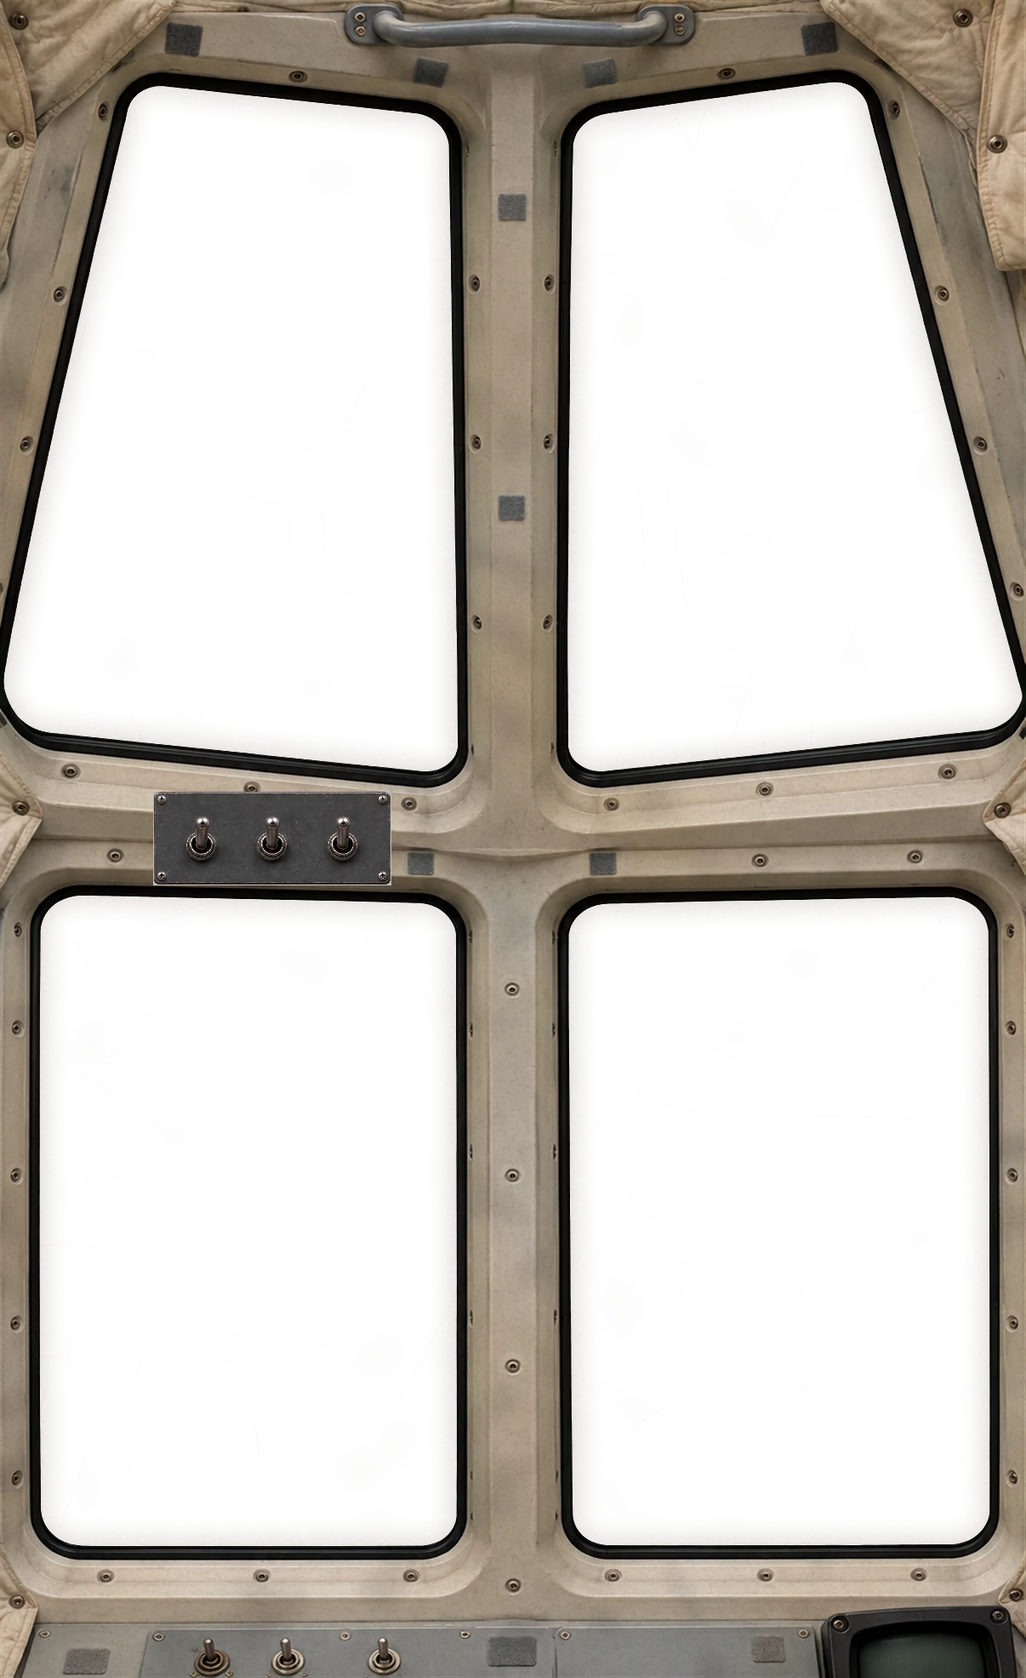
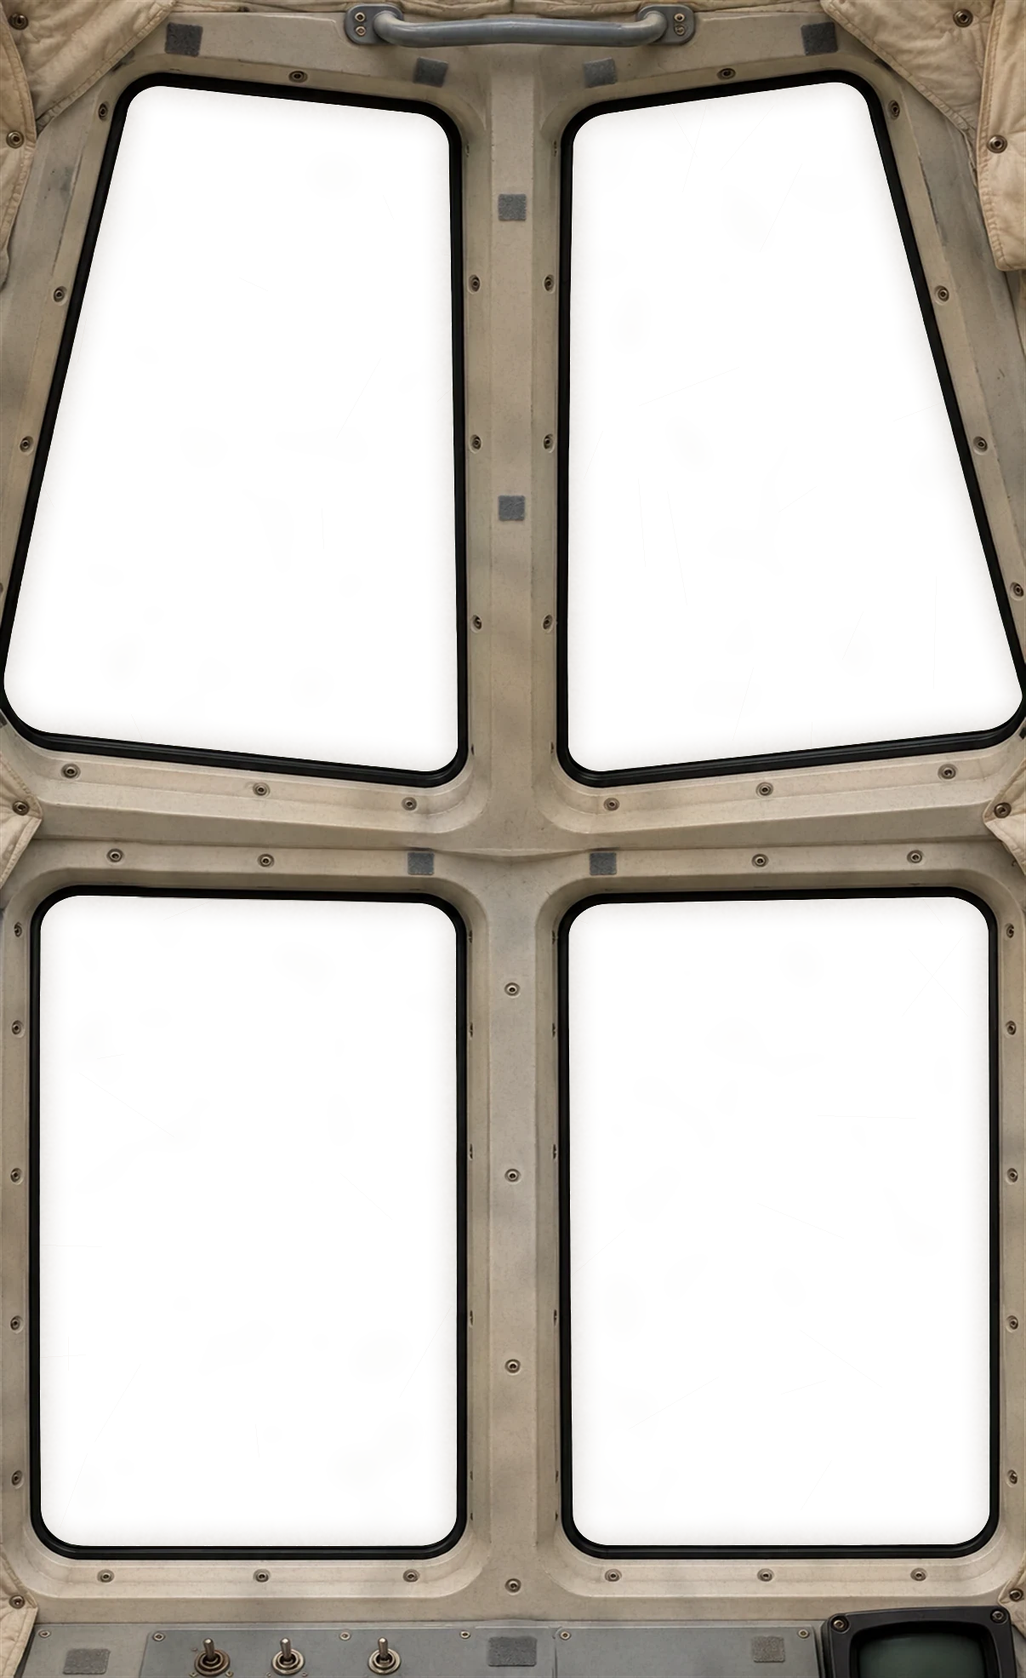
v1.0.28: Discovery's cabin without its switch plate (the frame mended from its mirror side; Apollo's and Eagle's switches stay), and its robotic arm with depth: in thick through the lower left window and thin at Hubble, its shoulder kept beyond the eye's 10 km near plane and its booms tapered toward

Changed region(s): [[0.1227, 0.4642, 0.3988, 0.5571]]

diff --git a/src/core/courses.js b/src/core/courses.js
@@ -53,7 +53,7 @@ export const COURSES = [
   // "우주왕복선 중에서 유명한게 뭐였지? 그거 관광 비행 코스"; the flight chosen with GPT): from the
   // aft flight deck, Hubble just let go of, over the Earth; the shuttle backs away and the
   // telescope goes small; at the end the view turns to the horizon ahead.
-  { id: 'discovery', body: 'earth', lapS: 480, rail: { shuttle: true, arm: true, cabin: 'assets/tours/shuttle-cabin.webp', cabinKeys: [{ does: 'sound', label: 'Sound', hit: [198, 935, 274, 1036], lever: [206, 950, 266, 1036], down: { src: 'assets/tours/shuttle-switch-down.webp', x: 180, y: 930, w: 280, h: 110 }, labelY: 954 }, { does: 'music', label: 'Music', hit: [282, 935, 358, 1036], lever: [290, 950, 350, 1036], down: { src: 'assets/tours/shuttle-switch-down.webp', x: 180, y: 930, w: 280, h: 110 }, labelY: 954 }, { does: 'caption', label: 'Caption', hit: [366, 935, 442, 1036], lever: [374, 950, 434, 1036], down: { src: 'assets/tours/shuttle-switch-down.webp', x: 180, y: 930, w: 280, h: 110 }, labelY: 954 }], floaters: ['assets/tours/candy.webp'], pace: 50, nearKm: 14, farKm: 600, turnS: 330, loops: true, fades: [479.2], startS: -30, photos: [{ from: -30, to: -14, src: 'assets/tours/hubble-grapple.jpg', pan: [30, 62], zoom: [1.08, 1] }, { from: 440, to: 480, src: 'assets/tours/pillars.jpg', pan: [18, 48], zoom: [1.15, 1], origin: '50% 30%' }], countdowns: [{ at: 0, from: 10, beeps: 10, said: t('허블 분리 카운트다운'), go: t('분리!'), goCue: 'click' }], met: [[-30, 30.55], [0, 31.07], [330, 32.6], [480, 33.2]], phases: [[-30, t('놓기 전')], [0, t('놓아줌')], [40, t('멀어지는 중')], [330, t('지구 궤도')]], captions: [{ at: -29, text: t('1990년 4월 25일, 지구 위 612km. 우주 왕복선 디스커버리의 로봇팔이 허블 우주망원경을 들고 있습니다.') }, { at: -18, text: t('팔을 움직이는 사람은 스티븐 홀리. 이제 허블을 우주에 놓아줄 차례입니다.') }, { at: 1, text: t('허블이 팔에서 떨어졌습니다. 이제 혼자 우주에 떠 있습니다.') }, { at: 14, text: t('길이 13m, 무게 11톤. 버스 한 대만 한 망원경입니다.') }, { at: 42, text: t('디스커버리가 허블에게서 천천히 멀어집니다.') }, { at: 68, text: t('이름은 천문학자 에드윈 허블에게서 왔습니다. 우리 은하 밖에도 은하가 있고, 우주가 커지고 있다는 것을 밝힌 사람입니다.') }, { at: 96, text: t('별이 반짝이는 것은 공기가 별빛을 흔들기 때문입니다. 허블은 공기가 없는 우주에서 흔들림 없는 별빛을 봅니다.') }, { at: 124, text: t('거울의 지름은 2.4m. 허블은 95분마다 지구를 한 바퀴 돕니다.') }, { at: 152, text: t('그런데 첫 사진이 흐렸습니다. 거울 가장자리가 머리카락 굵기의 50분의 1만큼 잘못 깎여 있었습니다.') }, { at: 180, text: t('1993년 우주비행사들이 찾아가, 안경을 씌우듯 흐림을 바로잡는 장치를 달았습니다.') }, { at: 208, text: t('그 뒤로도 2009년까지 모두 다섯 번 찾아가 허블을 고치고 새 장비를 달았습니다.') }, { at: 236, text: t('창밖의 허블은 2002년에 고치러 갔을 때 찍은 실제 사진입니다.') }, { at: 264, text: t('1995년, 허블은 빈 하늘의 작은 점 하나를 열흘 동안 보았습니다. 그 안에 은하가 3천 개쯤 있었습니다.') }, { at: 292, text: t('허블은 우주가 얼마나 빨리 커지는지 재어, 우주의 나이를 더 정확히 알게 해 주었습니다.') }, { at: 334, text: t('디스커버리가 앞쪽 지평선으로 몸을 돌립니다. 나흘 뒤 지구로 돌아갑니다.') }, { at: 364, text: t('그 뒤 36년. 허블은 지금도 지구를 돌며 하늘을 보고 있습니다.') }, { at: 395, text: t('허블이 보낸 자료로 쓴 논문은 2만 편이 넘습니다.') }, { at: 442, text: t('1995년 허블이 찍은 「창조의 기둥」. 별이 태어나는 가스 기둥으로, 6,500광년 떨어져 있습니다.') }, { at: 458, text: t('맨 왼쪽 기둥의 길이는 약 4광년. 허블이 본 수많은 우주 가운데 하나입니다.') }] }, name: t('우주 왕복선 디스커버리와 허블'), todo: t('1990년 우주 왕복선 디스커버리가 허블 우주망원경을 우주에 놓아준 날, 조종실 창으로 멀어지는 허블을 봅니다.') },
+  { id: 'discovery', body: 'earth', lapS: 480, rail: { shuttle: true, arm: true, cabin: 'assets/tours/shuttle-cabin.webp', floaters: ['assets/tours/candy.webp'], pace: 50, nearKm: 14, farKm: 600, turnS: 330, loops: true, fades: [479.2], startS: -30, photos: [{ from: -30, to: -14, src: 'assets/tours/hubble-grapple.jpg', pan: [30, 62], zoom: [1.08, 1] }, { from: 440, to: 480, src: 'assets/tours/pillars.jpg', pan: [18, 48], zoom: [1.15, 1], origin: '50% 30%' }], countdowns: [{ at: 0, from: 10, beeps: 10, said: t('허블 분리 카운트다운'), go: t('분리!'), goCue: 'click' }], met: [[-30, 30.55], [0, 31.07], [330, 32.6], [480, 33.2]], phases: [[-30, t('놓기 전')], [0, t('놓아줌')], [40, t('멀어지는 중')], [330, t('지구 궤도')]], captions: [{ at: -29, text: t('1990년 4월 25일, 지구 위 612km. 우주 왕복선 디스커버리의 로봇팔이 허블 우주망원경을 들고 있습니다.') }, { at: -18, text: t('팔을 움직이는 사람은 스티븐 홀리. 이제 허블을 우주에 놓아줄 차례입니다.') }, { at: 1, text: t('허블이 팔에서 떨어졌습니다. 이제 혼자 우주에 떠 있습니다.') }, { at: 14, text: t('길이 13m, 무게 11톤. 버스 한 대만 한 망원경입니다.') }, { at: 42, text: t('디스커버리가 허블에게서 천천히 멀어집니다.') }, { at: 68, text: t('이름은 천문학자 에드윈 허블에게서 왔습니다. 우리 은하 밖에도 은하가 있고, 우주가 커지고 있다는 것을 밝힌 사람입니다.') }, { at: 96, text: t('별이 반짝이는 것은 공기가 별빛을 흔들기 때문입니다. 허블은 공기가 없는 우주에서 흔들림 없는 별빛을 봅니다.') }, { at: 124, text: t('거울의 지름은 2.4m. 허블은 95분마다 지구를 한 바퀴 돕니다.') }, { at: 152, text: t('그런데 첫 사진이 흐렸습니다. 거울 가장자리가 머리카락 굵기의 50분의 1만큼 잘못 깎여 있었습니다.') }, { at: 180, text: t('1993년 우주비행사들이 찾아가, 안경을 씌우듯 흐림을 바로잡는 장치를 달았습니다.') }, { at: 208, text: t('그 뒤로도 2009년까지 모두 다섯 번 찾아가 허블을 고치고 새 장비를 달았습니다.') }, { at: 236, text: t('창밖의 허블은 2002년에 고치러 갔을 때 찍은 실제 사진입니다.') }, { at: 264, text: t('1995년, 허블은 빈 하늘의 작은 점 하나를 열흘 동안 보았습니다. 그 안에 은하가 3천 개쯤 있었습니다.') }, { at: 292, text: t('허블은 우주가 얼마나 빨리 커지는지 재어, 우주의 나이를 더 정확히 알게 해 주었습니다.') }, { at: 334, text: t('디스커버리가 앞쪽 지평선으로 몸을 돌립니다. 나흘 뒤 지구로 돌아갑니다.') }, { at: 364, text: t('그 뒤 36년. 허블은 지금도 지구를 돌며 하늘을 보고 있습니다.') }, { at: 395, text: t('허블이 보낸 자료로 쓴 논문은 2만 편이 넘습니다.') }, { at: 442, text: t('1995년 허블이 찍은 「창조의 기둥」. 별이 태어나는 가스 기둥으로, 6,500광년 떨어져 있습니다.') }, { at: 458, text: t('맨 왼쪽 기둥의 길이는 약 4광년. 허블이 본 수많은 우주 가운데 하나입니다.') }] }, name: t('우주 왕복선 디스커버리와 허블'), todo: t('1990년 우주 왕복선 디스커버리가 허블 우주망원경을 우주에 놓아준 날, 조종실 창으로 멀어지는 허블을 봅니다.') },
   // Bruce McCandless's flight on the MMU from Challenger, 7 February 1984, the first
   // untethered spacewalk, seen from inside his helmet (the user, 2026-11-20: "우주 왕복선에서 우주
   // 유영하는걸 추천 코스로", "우주 유영을 1인칭 시점으로"): Challenger (a cut-out of the photo he

diff --git a/src/render/craft.js b/src/render/craft.js
@@ -768,8 +768,10 @@ export function createCraft(scene, craftList) {
     metal.emissiveColor = new Color3(0.07, 0.07, 0.075);
     metal.specularColor = new Color3(0.45, 0.45, 0.45);
     const root = new TransformNode(`${id}Arm`, scene);
-    const boom = (n, look = material) => {
-      const mesh = CreateCylinder(`${id}Arm${n}`, { height: 1, diameter: 1, tessellation: 18 }, scene);
+    // A boom wider at its start (bottom, toward the shoulder) than at its end: the near end of
+    // the arm reads wider, as it would seen from its root.
+    const boom = (n, look = material, start = 1, end = 1) => {
+      const mesh = CreateCylinder(`${id}Arm${n}`, { height: 1, diameterBottom: start, diameterTop: end, tessellation: 18 }, scene);
       mesh.parent = root;
       mesh.material = look;
       mesh.isPickable = false;
@@ -780,7 +782,7 @@ export function createCraft(scene, craftList) {
     elbow.parent = root;
     elbow.material = metal;
     elbow.isPickable = false;
-    const arm = { root, upper: boom('Upper'), lower: boom('Lower'), hand: boom('Hand', metal), elbow, held: null };
+    const arm = { root, upper: boom('Upper', material, 2.4, 1.5), lower: boom('Lower', material, 1.5, 1), hand: boom('Hand', metal), elbow, held: null };
     arms.set(id, arm);
     return arm;
   };
@@ -813,11 +815,20 @@ export function createCraft(scene, craftList) {
     if (t < 0 || !arm.held) arm.held = toEye(plane.position.add(R.scale(-0.1 * w)).add(U.scale(-0.2 * h)));
     const held = arm.held;
     const far = Math.hypot(...held);
-    const shoulder = [held[0] + 0.05 * far, -0.8 * far, 0.55 * far];
-    const low = [held[0], -0.9 * far, held[2]];
+    // The shoulder near the eye, so the arm comes in thick and narrows toward Hubble as a
+    // boom of one width does seen from its root (the user, 2026-11-20:
+    // "로봇팔 폭이 근거리와 원거리가 같네"; it stood at 55% of Hubble's distance).
+    // Just under the bottom edge, its elbow in the lower left window. Not nearer than two
+    // thirds of Hubble's distance: the eye cuts away all within 10 km (its near plane) and
+    // a shoulder at a fifth of the way was cut off with half the arm. The rest of the
+    // nearness is in the booms' taper (armOf).
+    const root = Math.max(0.66 * far, 1.2 * eye.minZ);
+    const shoulder = [-0.12 * root, -0.63 * root, root];
+    // Let go, the hand folds down past the shoulder's side, out under the lower left window.
+    const low = [-0.3 * root, -1.2 * root, 1.2 * root];
     const wrist = held.map((n, i) => n + (low[i] - n) * fold);
     const [s, wv] = [fromEye(shoulder), fromEye(wrist)];
-    const reach = 0.62 * Vector3.Distance(fromEye(held), s);
+    const reach = 0.6 * Vector3.Distance(fromEye(held), s);
     const way = wv.subtract(s);
     const dist = Math.min(way.length(), 2 * reach * 0.999);
     const dir = way.normalize();
@@ -830,7 +841,7 @@ export function createCraft(scene, craftList) {
     const back = wv.subtract(elbow).normalize();
     span(arm.hand, wv.subtract(back.scale(0.07 * far)), wv, 1.6 * thick);
     arm.elbow.position.copyFrom(elbow);
-    arm.elbow.scaling.setAll(1.4 * thick);
+    arm.elbow.scaling.setAll(1.8 * thick);
     arm.root.setEnabled(true);
   }
   const buildCraft = (id) => {

diff --git a/src/core/changes.js b/src/core/changes.js
@@ -11,6 +11,7 @@ import { t } from './i18n.js';
 // carry a `link`, an address written after it that can be pressed (the user, 2026-10-14,
 // of the promo video's line: "쇼츠 주소는? 링크도 올려야지").
 export const CHANGES = [
+  { day: '2026-11-20', text: t('우주 왕복선 디스커버리와 허블 코스의 로봇팔이 가까운 쪽은 굵고 허블 쪽은 가늘게, 멀고 가까움이 보입니다.') },
   { day: '2026-11-20', text: t('우주 왕복선 디스커버리와 허블 코스에서 허블을 붙든 로봇팔이 떨리던 것을 고쳤습니다.') },
   { day: '2026-11-20', text: t('추천 우주멍 코스 아폴로 11호의 길이 생겼습니다. 발사대를 떠나 달에 내리고 태평양으로 돌아옵니다.') },
   { day: '2026-11-20', text: t('추천 우주멍 코스 우주 왕복선 디스커버리와 허블이 생겼습니다. 1990년 허블을 우주에 놓아준 날입니다.') },

diff --git a/tests/courses.test.js b/tests/courses.test.js
@@ -135,7 +135,7 @@ test('every picture and sound a course names is there in public/', () => {
     else if (v && typeof v === 'object') for (const x of Object.values(v)) walk(x);
   };
   for (const c of COURSES) walk(c.rail ?? {});
-  assert.ok(named.size >= 19, String(named.size));
+  assert.ok(named.size >= 18, String(named.size));
   for (const path of named) assert.ok(fs.existsSync(`public/${path}`), path);
 });
 

diff --git a/docs/Space-Oddity-상세기획서.md b/docs/Space-Oddity-상세기획서.md
@@ -662,6 +662,7 @@ v0.1.37, 눈으로 보지 못했던 것을 다시 찍어 보고 고친 것(`.pla
 - 2026-11-02에 우주멍 화면 왼쪽 위에 제목 로고를 작게(92px 폭) 넣었다(v0.4.61). 사용자 말: "우주멍 모드에서는 화면 상단 왼쪽에 조그맣게 로고 넣어줘".
 - 2026-11-18에 우주멍 시계, 잠들기 타이머, 배경화면 저장을 넣었다(v1.0.8). 우주멍 시계는 설정에서 켜며, 우주멍 동안 화면 위쪽에 시각과 날짜를 띄우고 화면 꺼짐을 막는다(Wake Lock). 시계는 1분마다 12픽셀 안에서 자리를 옮긴다. 잠들기는 배경 음악 칸의 단추로 15, 30, 60분을 고르며, 시간이 되면 음악과 화면이 60초에 걸쳐 잦아들고 어두워진다(검은 막 92%). 화면을 만지면 돌아온다. 배경화면은 사진 모드의 단추로, 보통 사진이 화면의 1.6배까지만 그리는 것과 달리 기기 해상도(3배까지, 한 변 4096픽셀까지)로 한 장을 그린다. "시계 자리 보기"는 잠금화면 시계가 덮는 자리를 점선으로 보인다. 시계 글씨는 세 모양(가는 글씨, 할머니 손글씨, 별빛)을 나란히 보인 뒤 사용자가 고른 할머니 수첩 손글씨(크림색)다. 코드는 GPT(Codex)가 짰고 번역과 검토는 Claude가 했다. 사용자 말: "5,6,7 해보자", "코딩은 gpt 시켜도 되지?", "나".
 - 2026-11-18에 우주멍 시계를 화면 왼쪽 위, 제목 바로 아래로 옮기고 시각과 날짜 줄을 각각 제목 폭(92픽셀)에 맞춰 글씨 크기를 정하게 했다. 우주멍 동안 우주멍 단추 옆에 배경 음악 켜기/끄기 단추를 둔다(v1.0.9). 사용자 말: "시간과 날짜를 왼쪽 상단, 제목 바로 아래로 옮기고, 폰트도 적당히 줄여서 폭을 맞춰", "우주멍에서는 배경음악 ON/OFF 버튼을 우주멍 버튼 옆에 그려줘". 날짜는 줄임 꼴로 쓴다: "11월 18일 (수)", "Wed, Nov 18", "11月18日(水)", "11月18日周三"(v1.0.10, 사용자 말: "줄임말로 쓰지").
+- 2026-11-20에 디스커버리 코스의 창틀에서 Sound, Music, Caption 스위치판을 지우고(창틀이 좌우 거의 같아 오른쪽의 같은 자리를 뒤집어 메우고 가장자리 22픽셀을 섞었다), 로봇팔에 원근감을 주었다(v1.0.28). 아폴로와 이글 창틀의 스위치는 그대로다. 팔의 어깨를 화면 아래 바로 밖에 두어 팔이 왼쪽 아래 창으로 굵게 들어와 허블 쪽으로 가늘어진다(402 폭에서 30 → 10픽셀). 어깨를 더 가까이 둘 수는 없다: 눈은 10km(near plane) 안을 그리지 않아 팔이 잘린다. 그래서 어깨는 허블 거리의 3분의 2, 또는 10km의 1.2배 가운데 먼 쪽에 두고, 나머지 가까움은 팔 원통을 어깨 쪽이 굵게(위팔 2.4 → 1.5, 아래팔 1.5 → 1) 깎아 낸다. 놓은 뒤 팔은 왼쪽 아래로 접혀 사라진다. 사용자 말: "이거 없애자"(스위치판), "디스커버리만", "로봇팔 폭이 근거리와 원거리가 같네.. (원근감이 없음)", "만들어".
 - 2026-11-20에 디스커버리 코스에서 허블을 붙든 로봇팔이 떨리던 것을 고쳤다(v1.0.26). 팔은 눈(카메라)을 기준으로 그리는데, 한 장면마다 우주선을 먼저 놓고 눈을 나중에 돌려 팔이 늘 한 장면 늦었다. 땅을 실제 빠르기(50배)로 돌리자 눈이 빨리 돌아 그 어긋남이 떨림으로 보였다. 이제 눈을 먼저 돌리고(`src/render/world.js`), 팔을 그리기 전에 눈의 방향을 새로 읽는다(`src/render/craft.js` armDraw). 그래도 떨었다(v1.0.27). 매 장면을 재어 보니 팔과 허블은 함께 붙어 있고, 둘이 함께 화면에서 평균 2픽셀, 장면이 늦게 오면 18픽셀까지 튀었다. 코스가 눈을 허블 곁에 놓은 뒤, 지구 가까이 날 때 땅과 함께 돌려 주는 단계(`main.js`, NEAR_CARRY)가 그 장면 동안 지구가 돈 만큼 눈을 또 옮겼다. 50배 빠르기에서는 장면마다 200m쯤이다. 이제 그 단계는 코스를 나는 동안 쉬고, 허블과 팔은 장면마다 0.03픽셀 안에서 움직인다. 사용자 말: "허블 놓아주는데, 로봇팔이 사시나무 떨듯이 떨어", "고쳐", "그래도 떨어".
 - 2026-11-20에 추천 우주멍 코스 셋을 넣어 18개가 되었다(v1.0.25). 셋 다 실제 우주 비행을 따라간다. (1) "아폴로 11호의 길": 케네디 우주센터와 39A 발사대의 NASA 사진으로 시작해 20초 카운트다운 뒤 발사, 지구 궤도, 달로 가는 점화, 사흘 길, 달 뒤편과 지구돋이, 이글의 세모난 창으로 고요의 바다 착륙, 이륙과 도킹, 지구로 돌아와 대기권 진입과 낙하산, 태평양까지 1100초. 사령선과 이글의 창틀은 GPT 그림이고, 창틀의 Sound, Music, Caption 스위치는 효과음, 음악, 자막을 켜고 끈다. 위쪽에 임무 날짜와 경과 시간(MET)이 뜬다. (2) "우주 왕복선 디스커버리와 허블": 1990년 4월 STS-31. 로봇팔에 붙들린 허블의 실제 사진으로 시작해, 10초 카운트다운 뒤 팔이 허블을 놓고, 디스커버리가 14km에서 600km까지 멀어진다(게임 속 거리). 허블은 2002년의 실제 사진을 오려 띄운다. 끝에 「창조의 기둥」 사진. 낡은 조종실 창틀과 떠다니는 사탕은 GPT 그림. (3) "줄 하나 없이 우주 유영": 1984년 2월 7일 브루스 매캔들리스의 첫 MMU 비행. 멀리서 다가가 챌린저의 화물칸 문이 열리고 그가 나오는 것을 본 뒤 헬멧 안으로 들어가, 숨소리와 환풍기 소리, 몸이 천천히 돌고 기우는 느낌, 가끔 뿜는 추진기와 함께 멀어지는 챌린저를 본다. 화면을 끌면 고개를 돌린다. 챌린저는 이 게임에서 처음 만든 3D 모형이다(`src/render/challenger3d.js`): 몸체, 날개, 수직 꼬리날개, 엔진, 화물칸 문 두 짝과 로봇팔이 움직이고, 타일, 누빔 담요, 방열판, 날개 글씨를 코드로 그린다. 해의 그림자가 스스로에게 진다(휴대전화는 그림자 지도 1024, 컴퓨터는 2048). 사진 S84-27020 옆에 나란히 놓고 글씨 방향, 문 안쪽 방열판, 화물칸 속, 코 모양을 맞췄다. 디스커버리와 매캔들리스 코스는 땅이 실제 빠르기로 지나간다(게임의 시계는 50배 느려, 코스 동안만 50배로 돌린다). 사진과 그림은 `public/assets/tours/` 에 두었고(5.2MB, PNG 창틀은 같은 크기의 WebP로 줄였다), 출처는 `THIRD-PARTY.md` 에 적었다. 시험 745개. 사용자 말: "그럼 아폴로 하자", "우주왕복선 중에서 유명한게 뭐였지? 그거 관광 비행 코스", "우주 왕복선에서 우주 유영하는걸 추천 코스로", "우주 유영을 1인칭 시점으로", "차라리 네가 3D로 그릴래?", "화물칸과 로봇팔도 다 움직여야함", "그림자도 넣어", "MMU 코스에 챌린저 넣어", "제목 그대로 두고, 나머지 개발".
 - 2026-11-19에 추천 우주멍 코스마다 대표 사진을 넣었다(v1.0.21). 사용자 말: "이 부분에 대표 스냅 사진 넣자"(\"날아 보기\" 단추 자리를 가리키며). 코스 줄의 단추 자리에 사진(150x100, `public/assets/courses/<코스 id>.jpg`, 360x240 JPEG 15장, 합쳐 200KB)을 두고 그 옆에 "날아 보기"와 "링크 보내기"를 세로로 둔다. 사진을 눌러도 그 코스를 난다. 사진은 시험 서버에서 각 코스를 띄워 화면을 찍고 가운데를 3:2로 잘랐다. 카카오톡으로 코스를 보내면 카드 그림도 이 사진이다. 아직 열리지 않은 코스는 사진을 보이지 않는다.

diff --git a/바뀐-것들.md b/바뀐-것들.md
@@ -2,12 +2,13 @@
 
 게임 설정의 "바뀐 것들" 쪽과 같은 내용이다. 플레이어가 화면에서 보거나 듣는 변화만 한 줄씩 적는다.
 
-만들기 시작한 날은 2026년 9월 30일이고, 지금까지 405줄이다. 어떻게 만들었는지는 [상세기획서](docs/Space-Oddity-상세기획서.md)에 날짜별로 있다.
+만들기 시작한 날은 2026년 9월 30일이고, 지금까지 406줄이다. 어떻게 만들었는지는 [상세기획서](docs/Space-Oddity-상세기획서.md)에 날짜별로 있다.
 
 이 파일은 직접 고치지 않는다. `src/core/changes.js` 에 한 줄을 넣고 `node build/changes-doc.mjs` 를 돌리면 다시 만들어진다.
 
 ## 2026-11-20
 
+- 우주 왕복선 디스커버리와 허블 코스의 로봇팔이 가까운 쪽은 굵고 허블 쪽은 가늘게, 멀고 가까움이 보입니다.
 - 우주 왕복선 디스커버리와 허블 코스에서 허블을 붙든 로봇팔이 떨리던 것을 고쳤습니다.
 - 추천 우주멍 코스 아폴로 11호의 길이 생겼습니다. 발사대를 떠나 달에 내리고 태평양으로 돌아옵니다.
 - 추천 우주멍 코스 우주 왕복선 디스커버리와 허블이 생겼습니다. 1990년 허블을 우주에 놓아준 날입니다.
